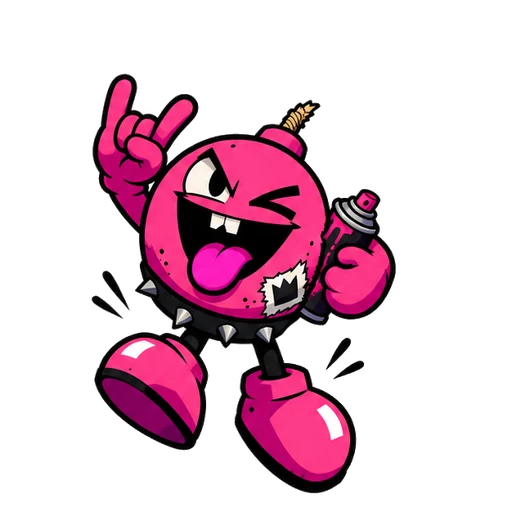
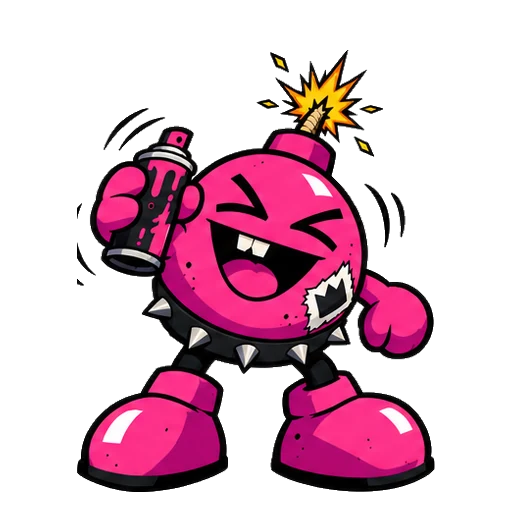
feat(cast): RIOT's WIN repainted as a 6-frame flipbook — fuse lit throughout, a pink spray splash at the top of the hop, rock-on horns hold

diff --git a/src/cast/cast.js b/src/cast/cast.js
@@ -470,10 +470,9 @@ const FRAME_SPECS = { hero: {}, win: {} };
 for (const [id, F] of Object.entries(CAST_FRAMES)) FRAME_SPECS.hero[id] = { ...F, file: id };
 export function registerWinFrames(id, F) { CAST_WIN_FRAMES[id] = F; FRAME_SPECS.win[id] = { ...F, file: `${id}-win` }; }
 // a WIN celebration runs tighter than an idle: short holds, a short rest — it's a party
-const WIN_SEQ = { n: 4, seq: [[1, 480], [2, 520], [3, 900]], rest: 700 };
-registerWinFrames('riot', WIN_SEQ);
 // 6-frame WIN sheets (3x2): small steps, so the party flows
 const WIN_SEQ6 = { n: 6, seq: [[1, 260], [2, 420], [3, 420], [4, 520], [5, 900]], rest: 600 };
+registerWinFrames('riot', WIN_SEQ6); // oct26 repaint (was 4 frames, fuse unlit): crouch → fists up → the hop, a pink spray splash → shakes the can → points it at you → rock-on horns
 registerWinFrames('glitch', WIN_SEQ6);
 registerWinFrames('hype', WIN_SEQ6);
 registerWinFrames('brawl', WIN_SEQ6);
